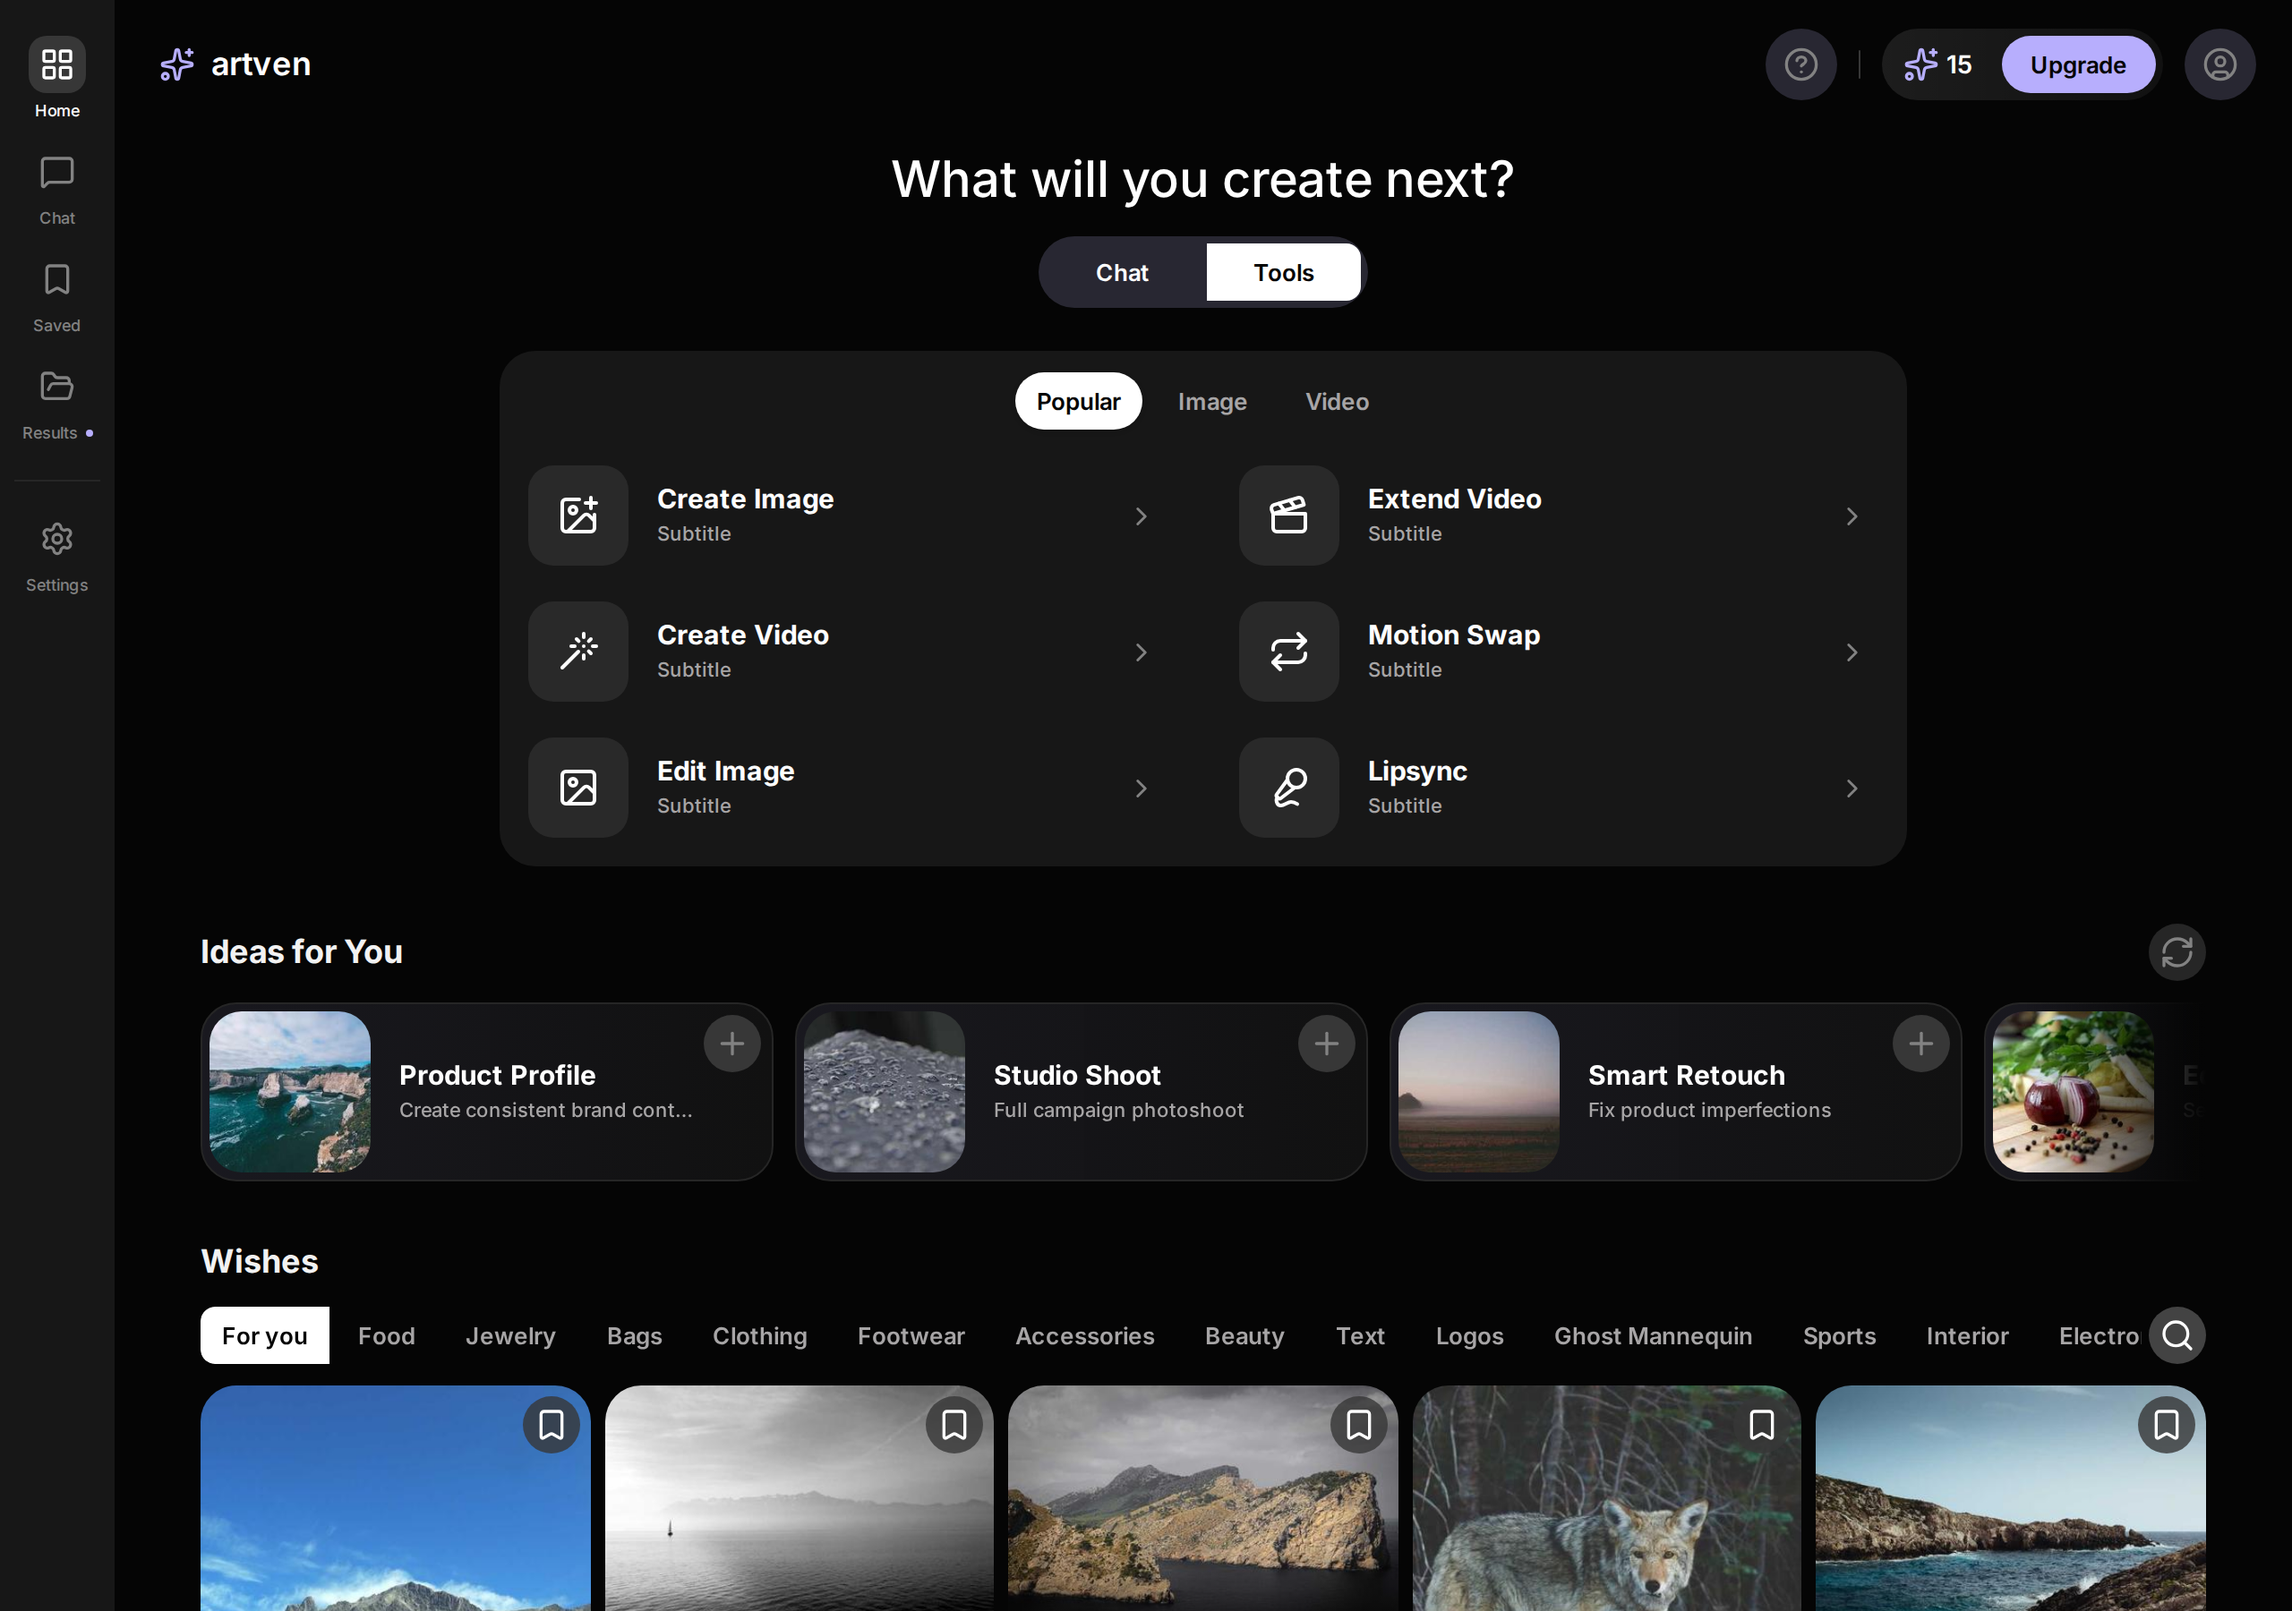
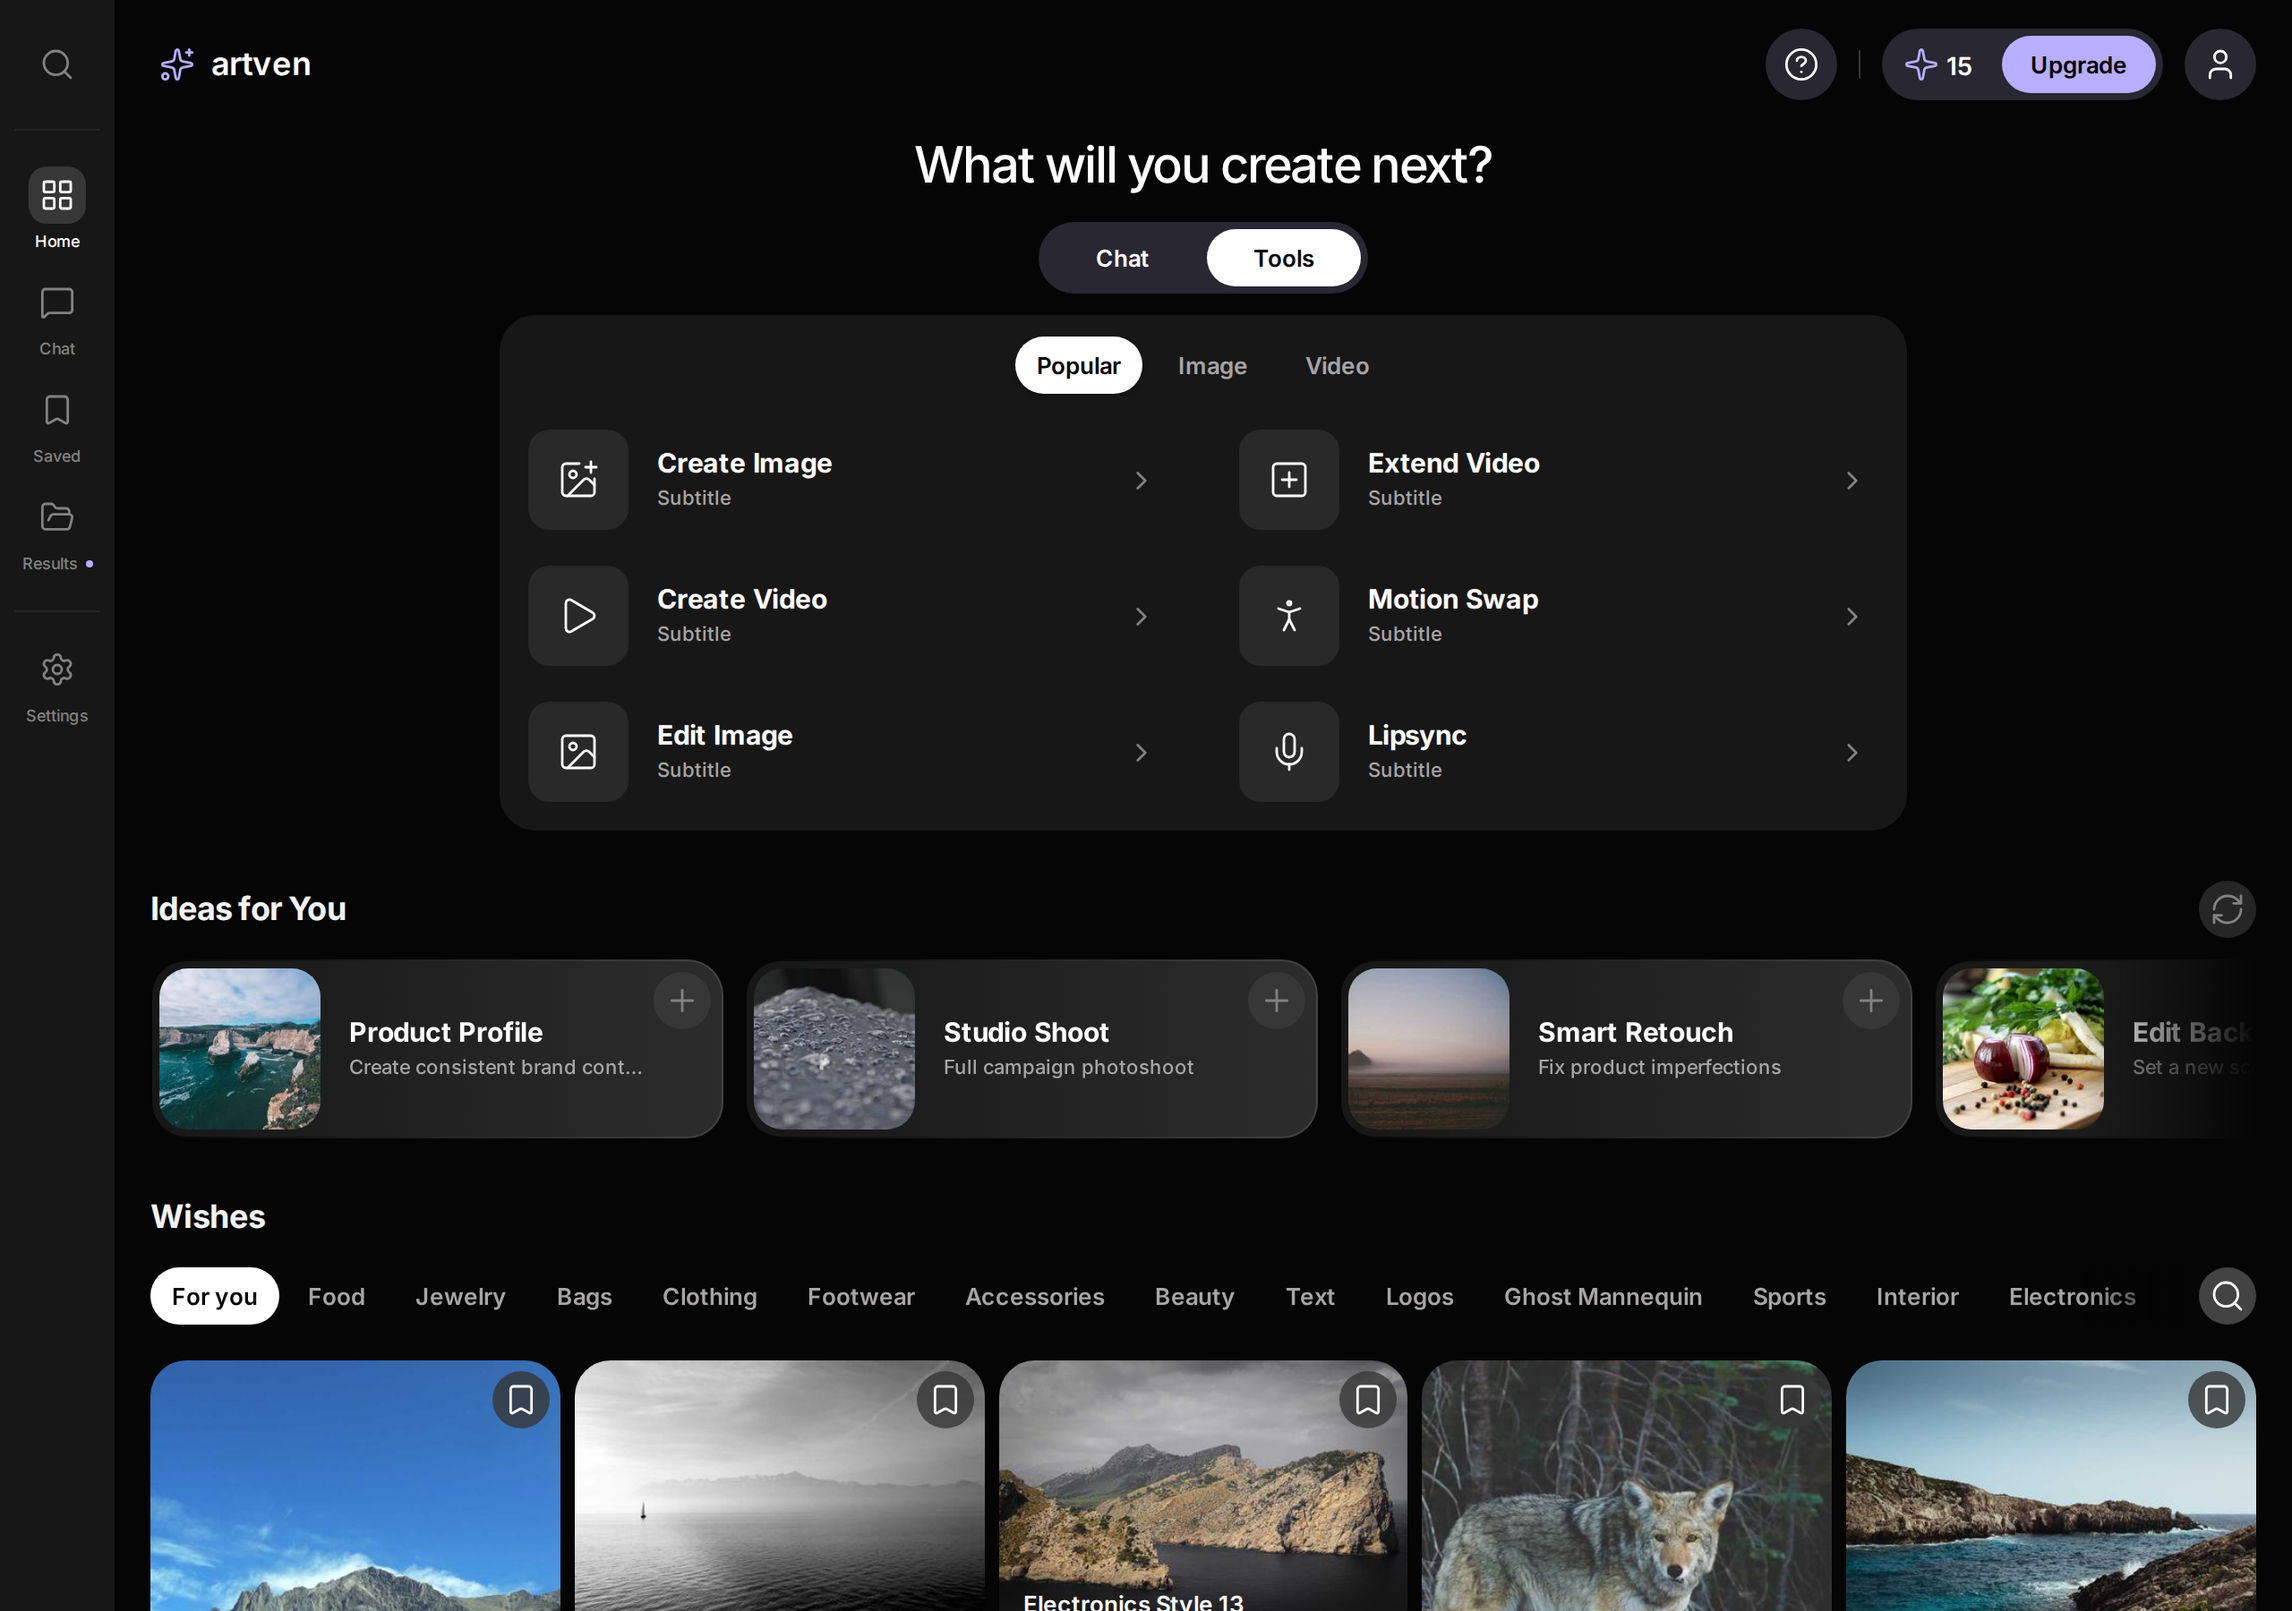
Releases. Released the demo per version with generated notes, updated screenshots and bumped to 1.1.0.

diff --git a/scripts/capture-screenshots.ts b/scripts/capture-screenshots.ts
@@ -26,6 +26,13 @@ async function waitForContent(page: Page): Promise<void> {
   await page.evaluate(() => document.fonts.ready)
 }
 
+/** Waits until every image on the page has loaded, including lazy images inside a just-opened dialog. */
+async function waitForImages(page: Page): Promise<void> {
+  await page.waitForFunction(() =>
+    [...document.images].every((image) => image.complete && image.naturalWidth > 0),
+  )
+}
+
 /** Waits until opening animations end, so dialogs and menus are captured fully opaque. */
 async function waitForAnimations(page: Page): Promise<void> {
   await page.evaluate(() =>
@@ -54,6 +61,7 @@ await page.screenshot({ path: `${outputDir}/home-tools.png` })
 
 await page.getByRole('button', { name: 'Smart Search' }).click()
 await page.getByRole('dialog').waitFor()
+await waitForImages(page)
 await waitForAnimations(page)
 await page.screenshot({ path: `${outputDir}/smart-search.png` })
 await page.keyboard.press('Escape')

diff --git a/docs/decisions/README.md b/docs/decisions/README.md
@@ -2,6 +2,18 @@
 
 Newest first. A changed decision gets a new entry that links to the old one.
 
+## 2026-11-19 · Releases deploy the demo
+
+- **Decision:** `.github/workflows/release.yml` replaces the deploy-on-every-push Pages workflow. A merge to `main` whose `package.json` version has no release yet builds the app, deploys it to GitHub Pages and then publishes the GitHub Release `v<version>` with notes generated from the merged pull requests. The version starts at 1.1.0 (the design fidelity work after `v1.0.0`). Replaces the deploy part of [Tests, CI and preview](#2026-11-19--tests-ci-and-preview).
+- **Why:** The demo should match a named version, and each version should have notes. Before this, `v1.0.0` was made by hand and `package.json` said `0.0.0`.
+- **Cost:** A change reaches the demo only when its pull request bumps the version.
+
+## 2026-11-19 · Modern Web Guidance was not used during the build
+
+- **Decision:** Correction of [Modern Web Guidance without installing](#2026-11-19--modern-web-guidance-without-installing): the CLI was checked but never consulted while building the page. From now on, the user's `code-writer` skill makes it mandatory before UI, CSS or client-side browser code: pinned version, `DISABLE_TELEMETRY=1`, no installation, and the user's rules and project decisions take priority over its guides.
+- **Why:** The earlier entry described an intention as if it were practice.
+- **Cost:** The existing components have not been checked against the guidance yet.
+
 ## 2026-11-19 · Design fidelity pass against Figma
 
 - **Decision:** A read-only audit compared every control with the Figma data, with a skeptic verifying each finding; 25 confirmed mismatches were fixed. Among them: mode switch and chips lost their pill radius to shadcn's `data-[spacing=0]` corner rules (fixed with `:spacing="1"`), invented hover fills were removed (Figma defines no hover state), the Smart Search dialog, menus, tile caption and gradients now use the Figma values, and the page content is 1216 px wide. `e2e/tests/design-fidelity.spec.ts` checks the computed values.

diff --git a/README.md b/README.md
@@ -3,7 +3,7 @@
 A test task for glam.ai, written with AI during a technical interview. It is the home screen of Artven, an AI content studio, built from a Figma mockup: a user starts a chat, picks a creative tool or reuses a template. There is no backend: all data comes from mock functions.
 
 [![CI](https://github.com/Anu3ev/glam.ai-test/actions/workflows/ci.yml/badge.svg)](https://github.com/Anu3ev/glam.ai-test/actions/workflows/ci.yml)
-[![Deploy](https://github.com/Anu3ev/glam.ai-test/actions/workflows/pages.yml/badge.svg)](https://github.com/Anu3ev/glam.ai-test/actions/workflows/pages.yml)
+[![Release](https://github.com/Anu3ev/glam.ai-test/actions/workflows/release.yml/badge.svg)](https://github.com/Anu3ev/glam.ai-test/actions/workflows/release.yml)
 
 **Demo:** <https://anu3ev.github.io/glam.ai-test/>
 
@@ -49,6 +49,10 @@ npm run dev
 | `npm run test:e2e` | Playwright tests, including computed-value checks against the Figma design |
 | `node scripts/fetch-figma.ts [name nodeId...]` | Refresh the cached Figma data; needs `FIGMA_TOKEN` in `.env.local` |
 | `node scripts/capture-screenshots.ts` | Update the screenshots above from a running `vite preview` |
+
+## Releases
+
+The demo shows the latest release. To ship a change, bump `version` in `package.json` in its pull request (`npm version <patch|minor|major> --no-git-tag-version`: patch for fixes, minor for features, major for breaking changes). After the merge, the Release workflow builds the app, deploys it to GitHub Pages and publishes the GitHub Release `v<version>` with the merged pull requests as notes. Merges without a version bump only run CI.
 
 ## Project structure
 
